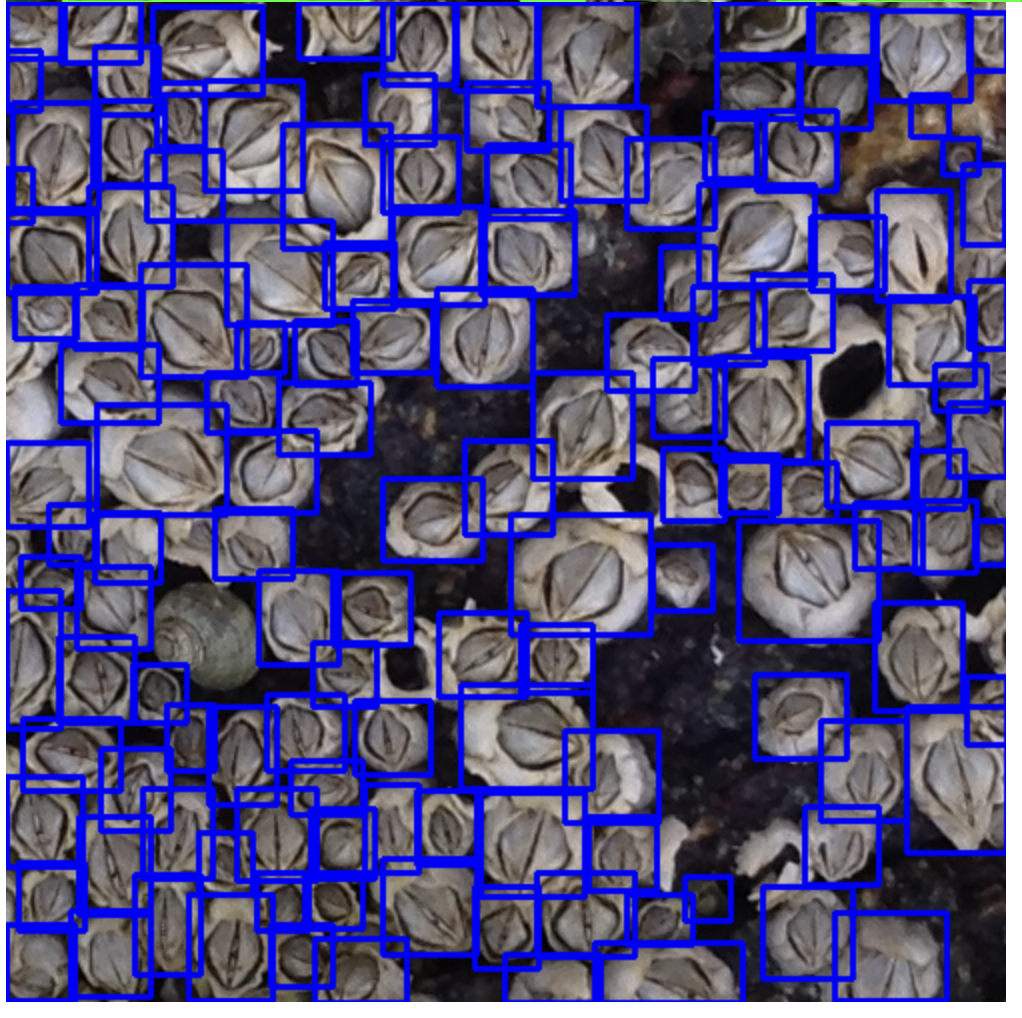
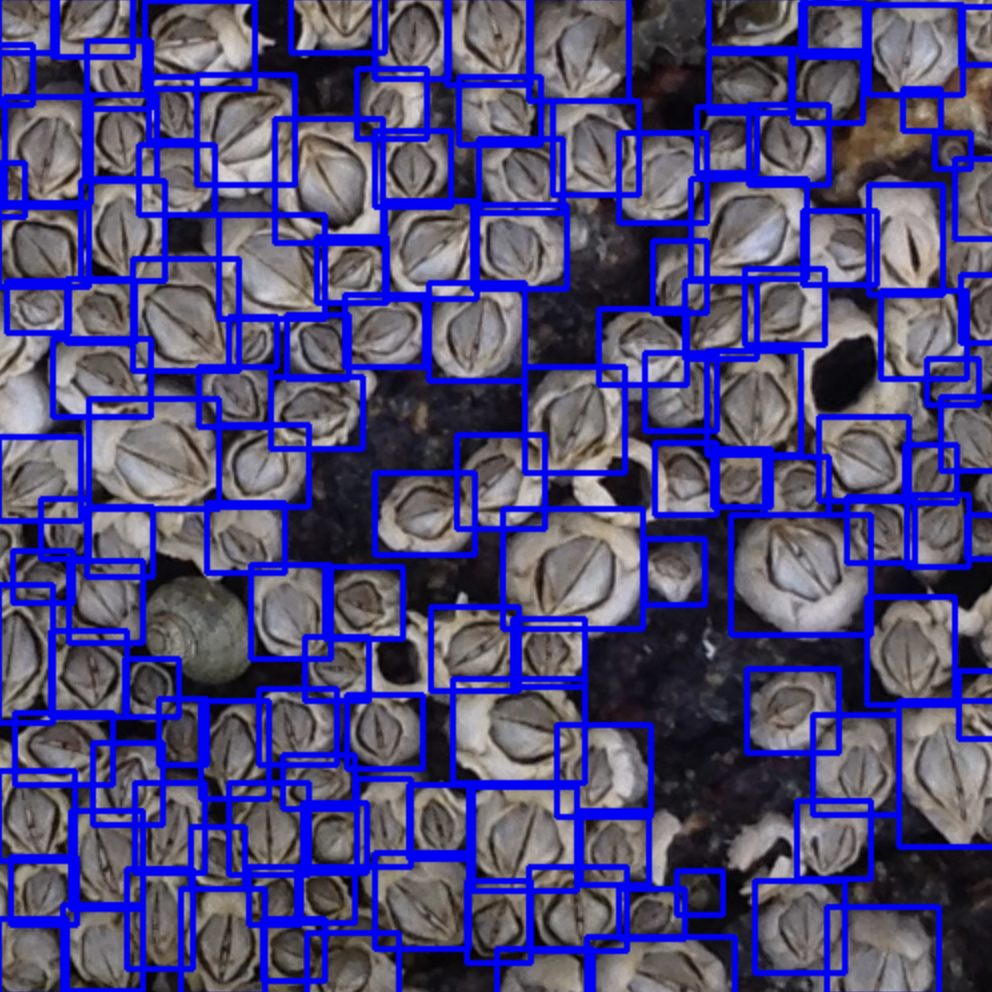
Fixing images

diff --git a/README.md b/README.md
@@ -12,11 +12,11 @@ This is a quick visual of the results of the model which seemed to perform prett
 
 The `best.pt` model being used on `unseen_img1.png`:
 
-<img src = "results/Test1.png" alt = "Test1" width="1000">
+<img src = "results/Test1.png" alt = "Test1" width="500">
 
 The `best.pt` model being used on a 640x640 pixel cropped portion of `unseen_img2.png`:
 
-<img src = "results/Test2.png" alt = "Test2" width="1000">
+<img src = "results/Test2.png" alt = "Test2" width="500">
 
 ### **What My Google Colab and Google Drive Structure Looked Like:**
 
